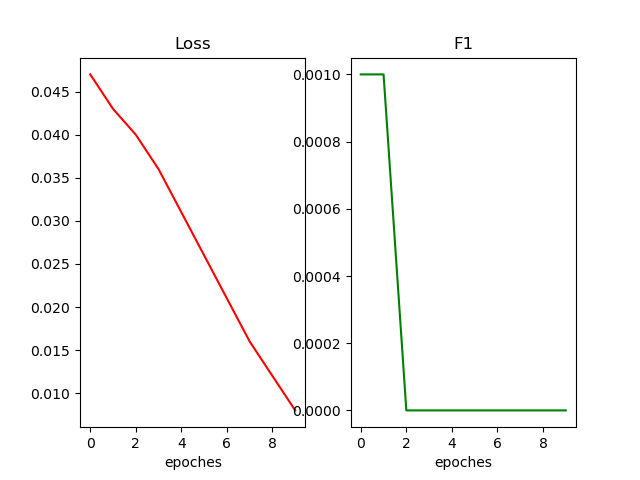
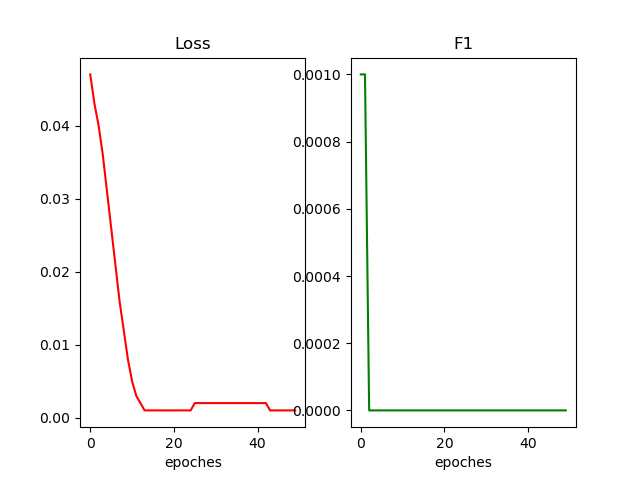
modify snapshot

diff --git a/arb_data/get_cpmm_arb_txn.py b/arb_data/get_cpmm_arb_txn.py
@@ -251,6 +251,64 @@ def generate_graph_outputs(arbs,pools,bn_start,bn_end,duration):
     return result
 
 
+def generate_graph_inputs_outputs(arbs,pools,bn_start,bn_end):
+
+    pool_addrs=get_cpmm_pool_list_from_arbs(arbs)
+    token_addrs=get_cpmm_token_list_from_arbs(arbs)
+    num_pools=len(pool_addrs)
+    num_tokens=len(token_addrs) # dimension of the one-hot representation of a token
+    df_arbs=pd.read_csv(arbs)
+    df_pools=pd.read_csv(pools)
+
+    result_y = []
+    result_x=[]
+    for bn in tqdm(range(bn_start,bn_end)):
+
+        arbs_start=df_arbs.loc[(df_arbs['blockNumber']>=bn)].to_dict('records')
+
+        graph_output=np.zeros([len(pool_addrs),1],dtype=int)
+        has_arb=False
+        for arb in arbs_start:
+            if arb['blockNumber']>=(bn):
+                break
+            pools=arb['pools'].split(' ')
+            protocols=[]
+            for p in pools:
+                if '(' not in p:
+                    continue
+                protocols.append(p.split('(')[1][:-1:])
+            new_protocols=list(filter(lambda x: x in ['sush', 'usp2'], protocols))
+            if len(pools) == len(new_protocols):
+                has_arb=True
+                p_addrs = arb['pool_addresses'].split(' ')
+                for p_addr in p_addrs: # all the pools that involve in thi arb
+                    idx=pool_addrs.index(p_addr)
+                    graph_output[idx]=1
+        
+        if has_arb:
+            largest_volume=0
+            graph_input=np.zeros([num_pools,2*num_tokens+2],dtype=float)
+            pool_state_info=df_pools.loc[(df_pools['blockNumber']==bn)].to_dict('records')
+            for pool_info in pool_state_info:
+                token0=get_token_onehot(token_addrs,pool_info['token0Address'])
+                token1=get_token_onehot(token_addrs,pool_info['token1Address'])
+                token0_volume=[float(pool_info['balance0'])]
+                token1_volume=[float(pool_info['balance1'])]
+                largest_volume=max(largest_volume,token0_volume[0],token1_volume[0])
+                graph_input[pool_addrs.index(pool_info['poolAddress'])]=np.concatenate((token0,token0_volume,token1,token1_volume))
+
+            for node_input in graph_input:
+                node_input[num_tokens]=node_input[num_tokens]/largest_volume
+                node_input[2*num_tokens+1]=node_input[2*num_tokens+1]/largest_volume
+            # print('shape of the graph input signal: ',graph_input.shape)
+            # print(graph_input)
+            result_x.append(graph_input)
+            result_y.append(graph_output)
+            
+    return result_x,result_y
+
+
+
 # df=pd.read_csv('./pools.csv')
 
 # df["poolAddress"] = df["poolAddress"].apply(lambda x: x.lower())

diff --git a/forecast/dataset.py b/forecast/dataset.py
@@ -35,7 +35,8 @@ def get_y(bn_start, bn_end, duration):
     # return torch.tensor(y,dtype=torch.long)
     return carb.generate_graph_outputs('../arb_data/one_day_arb.csv','../arb_data/pools.csv',bn_start, bn_end, duration)
 
-
+def get_xy(bn_start, bn_end):
+    return carb.generate_graph_inputs_outputs('../arb_data/one_day_arb.csv','../arb_data/pools.csv',bn_start, bn_end)
 
 class MyOwnDataset(InMemoryDataset):
     def __init__(self, root, transform=None, pre_transform=None, pre_filter=None):
@@ -72,8 +73,9 @@ class MyOwnDataset(InMemoryDataset):
 
         data_graph=get_edge_index()
 
-        data_x=get_x(bn_start, bn_end, duration)
-        data_y=get_y(bn_start, bn_end, duration)
+        # data_x=get_x(bn_start, bn_end, duration)
+        # data_y=get_y(bn_start, bn_end, duration)
+        data_x, data_y = get_xy(bn_start, bn_end)
         for i in tqdm(range(len(data_x))):
             data = Data(edge_index=data_graph,x=data_x[i],y=data_y[i])
             data_list.append(data)

diff --git a/forecast/eval.py b/forecast/eval.py
@@ -93,8 +93,8 @@ for time, snapshot in enumerate(test_dataset_snapshots):
     pred = y_hat.ge(.5).view(-1)
     print(sum(pred.numpy()))
     print(sum(snapshot.y.numpy()))
-    f1 += f1_score(pred.numpy(),snapshot.y.numpy())
-    f1_random += f1_score(pred_rand,snapshot.y.numpy())
+    f1 += f1_score(pred.numpy(),snapshot.y.numpy(),zero_division=0)
+    f1_random += f1_score(pred_rand,snapshot.y.numpy(),zero_division=0)
 loss = loss / (time+1)
 loss = loss.item()
 f1 = f1 / (time+1)

diff --git a/forecast/model.py b/forecast/model.py
@@ -111,7 +111,7 @@ def round_tensor(t, decimal_places=3):
 
 model.train()
 
-for epoch in tqdm(range(10)):
+for epoch in tqdm(range(50)):
     loss = 0
     f1 = 0
     for time, snapshot in enumerate(train_dataset_snapshots):
